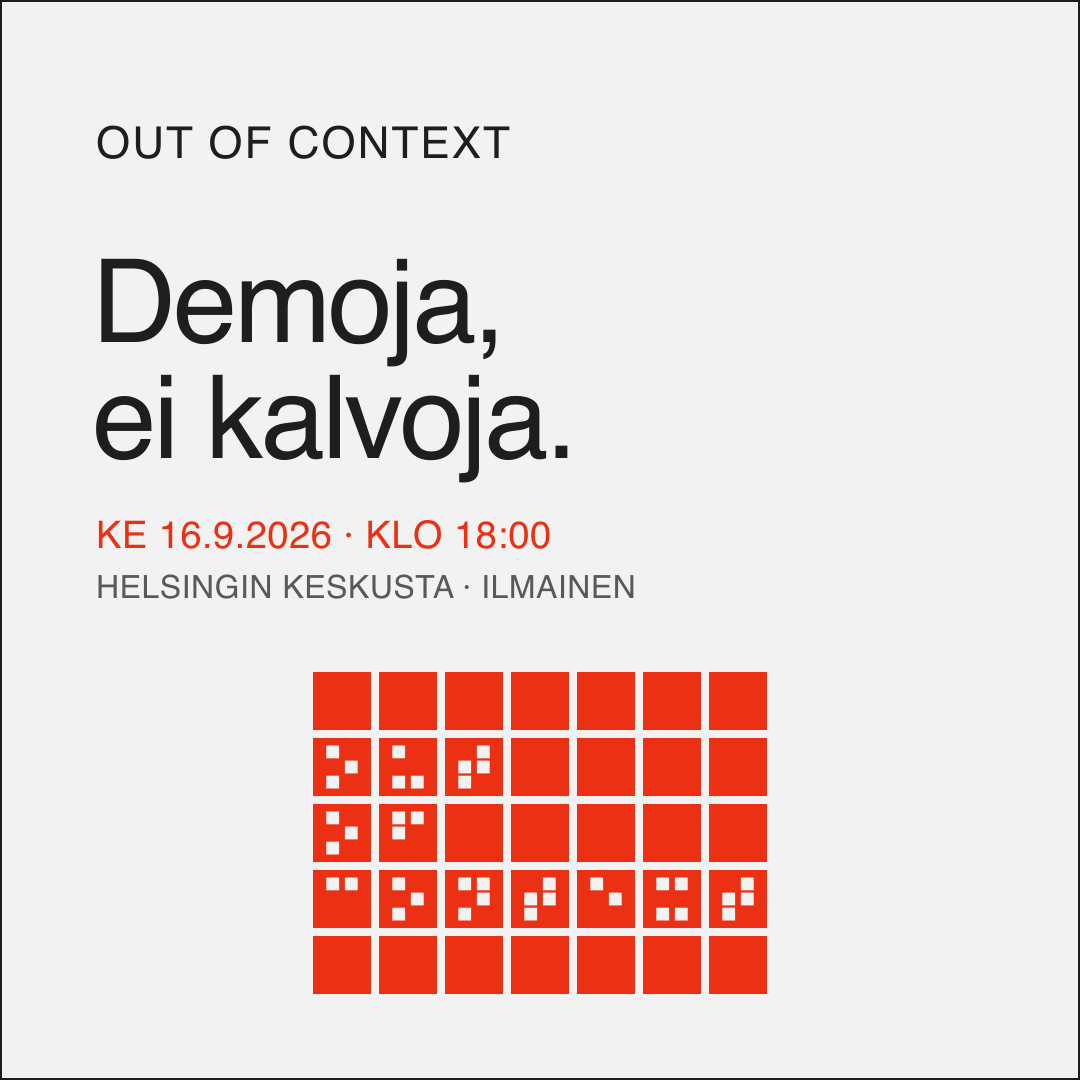
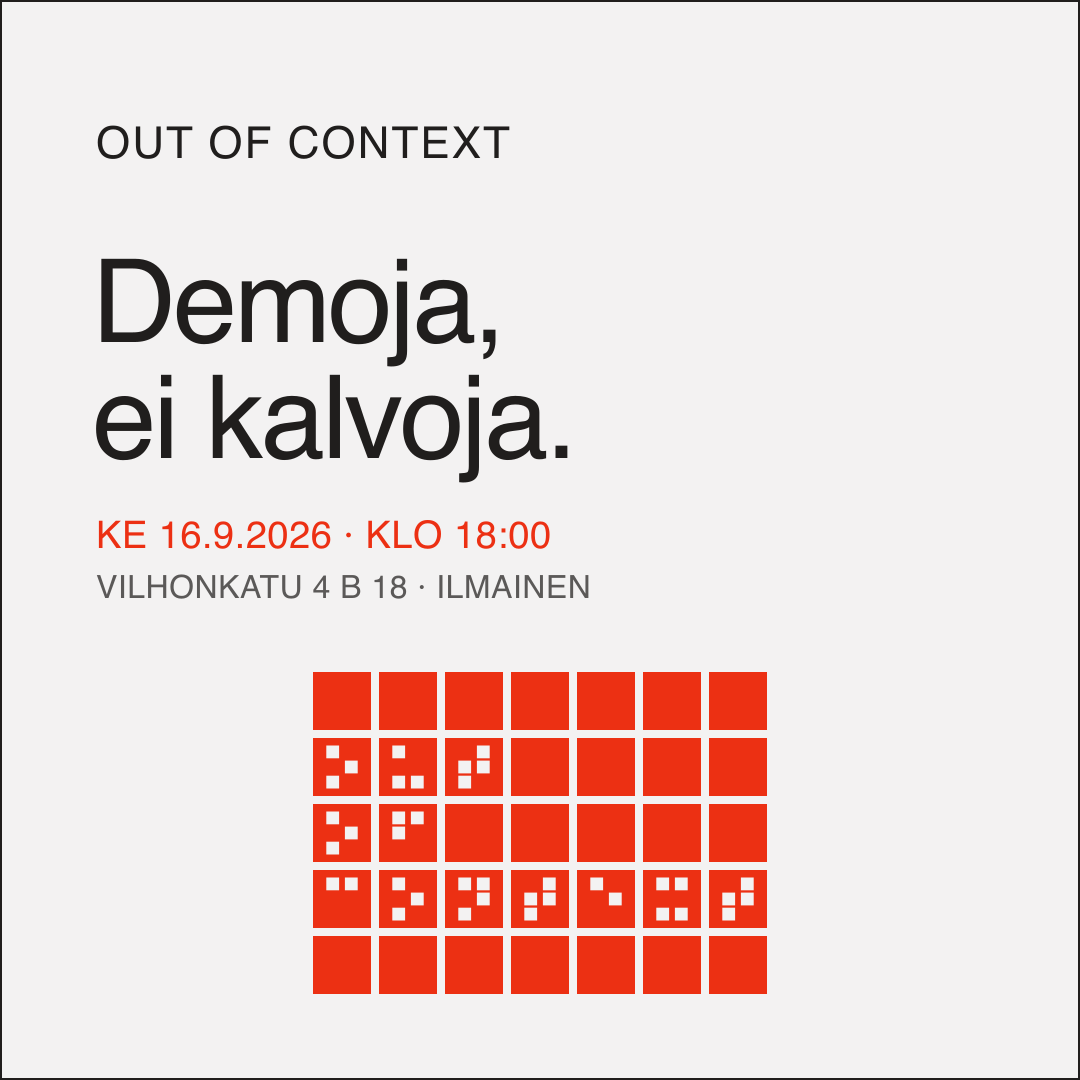
content: real venue — Vilhonkatu 4 B 18, Helsinki (site + OG + Lu.ma cover)

Changed region(s): [[0.0917, 0.5194, 0.5806, 0.5806]]

diff --git a/templates/index.html b/templates/index.html
@@ -378,9 +378,9 @@ a:hover { color: var(--color-accent); }
       </div>
       <div style="border:2px solid var(--color-divider); padding:24px; display:flex; flex-direction:column; gap:14px; align-items:flex-start">
         <div style="font-family:var(--font-heading); font-weight:700; font-size:11px; letter-spacing:0.1em; text-transform:uppercase">Lu.ma</div>
-        <div style="font-size:16px">Out of Context demoilta #1 · ke 16.9.2026 klo 18:00 · Helsingin keskusta</div>
+        <div style="font-size:16px">Out of Context demoilta #1 · ke 16.9.2026 klo 18:00 · Vilhonkatu 4 B 18, Helsinki</div>
         <a href="https://luma.com/8ankyx8u" class="btn btn-primary" style="justify-content:flex-start; font-size:16px; padding:16px 20px; width:100%; box-sizing:border-box">Ilmoittaudu Lu.massa</a>
-        <div class="text-muted" style="font-size:13px">Helsingin keskustan alueella; tarkka tila vahvistetaan viikkoa ennen. Kysyttävää? <a href="mailto:hei@out-of-context.dev?subject=Haluan%20demota">hei@out-of-context.dev</a></div>
+        <div class="text-muted" style="font-size:13px">Vilhonkatu 4 B 18, 4. krs, 00100 Helsinki. Kysyttävää? <a href="mailto:hei@out-of-context.dev?subject=Haluan%20demota">hei@out-of-context.dev</a></div>
       </div>
     </section>
   </div>
@@ -455,9 +455,9 @@ a:hover { color: var(--color-accent); }
       </div>
       <div style="border:2px solid var(--color-divider); padding:24px; display:flex; flex-direction:column; gap:14px; align-items:flex-start">
         <div style="font-family:var(--font-heading); font-weight:700; font-size:11px; letter-spacing:0.1em; text-transform:uppercase">Lu.ma</div>
-        <div style="font-size:16px">Out of Context demo night #1 · Wed 16 Sep 2026, 18:00 · Central Helsinki</div>
+        <div style="font-size:16px">Out of Context demo night #1 · Wed 16 Sep 2026, 18:00 · Vilhonkatu 4 B 18, Helsinki</div>
         <a href="https://luma.com/8ankyx8u" class="btn btn-primary" style="justify-content:flex-start; font-size:16px; padding:16px 20px; width:100%; box-sizing:border-box">Register on Lu.ma</a>
-        <div class="text-muted" style="font-size:13px">In central Helsinki; exact venue confirmed a week before. Questions? <a href="mailto:hei@out-of-context.dev?subject=Haluan%20demota">hei@out-of-context.dev</a></div>
+        <div class="text-muted" style="font-size:13px">Vilhonkatu 4 B 18, 4th floor, 00100 Helsinki. Questions? <a href="mailto:hei@out-of-context.dev?subject=Haluan%20demota">hei@out-of-context.dev</a></div>
       </div>
     </section>
   </div>

diff --git a/tools/og-image/generate.py b/tools/og-image/generate.py
@@ -45,7 +45,7 @@ parts.append(f'<text x="{LX}" y="132" font-family="{FF}" font-size="56" letter-s
 parts.append(f'<text x="{LX-4}" y="322" font-family="{FF}" font-size="100" letter-spacing="-3" fill="{INK}">Demoja,</text>')
 parts.append(f'<text x="{LX-4}" y="422" font-family="{FF}" font-size="100" letter-spacing="-3" fill="{INK}">ei kalvoja.</text>')
 parts.append(f'<text x="{LX}" y="512" font-family="{FF}" font-size="34" letter-spacing="0.5" fill="{RED}">KE 16.9.2026 &#183; KLO 18:00</text>')
-parts.append(f'<text x="{LX}" y="558" font-family="{FF}" font-size="30" letter-spacing="0.5" fill="{INK}" opacity="0.72">HELSINGIN KESKUSTA &#183; ILMAINEN</text>')
+parts.append(f'<text x="{LX}" y="558" font-family="{FF}" font-size="30" letter-spacing="0.5" fill="{INK}" opacity="0.72">VILHONKATU 4 B 18 &#183; ILMAINEN</text>')
 
 # ---- right: braille "OUT OF CONTEXT" as big favicon tiles (no orange panel) ----
 DOTS = {1: (0, 0), 2: (0, 1), 3: (0, 2), 4: (1, 0), 5: (1, 1), 6: (1, 2)}

diff --git a/tools/og-image/luma_cover.py b/tools/og-image/luma_cover.py
@@ -30,7 +30,7 @@ p.append(f'<text x="{LX}" y="158" font-family="{FF}" font-size="44" letter-spaci
 p.append(f'<text x="{LX-4}" y="342" font-family="{FF}" font-size="116" letter-spacing="-3" fill="{INK}">Demoja,</text>')
 p.append(f'<text x="{LX-4}" y="458" font-family="{FF}" font-size="116" letter-spacing="-3" fill="{INK}">ei kalvoja.</text>')
 p.append(f'<text x="{LX}" y="548" font-family="{FF}" font-size="38" letter-spacing="0.5" fill="{RED}">KE 16.9.2026 &#183; KLO 18:00</text>')
-p.append(f'<text x="{LX}" y="598" font-family="{FF}" font-size="32" letter-spacing="0.5" fill="{INK}" opacity="0.72">HELSINGIN KESKUSTA &#183; ILMAINEN</text>')
+p.append(f'<text x="{LX}" y="598" font-family="{FF}" font-size="32" letter-spacing="0.5" fill="{INK}" opacity="0.72">VILHONKATU 4 B 18 &#183; ILMAINEN</text>')
 
 # braille as big red favicon tiles, centered in the lower half
 cols, rows = 7, 5

diff --git a/issues/launch-checklist/item.md b/issues/launch-checklist/item.md
@@ -1,6 +1,6 @@
 ---
 created: 2026-08-02
-updated: 2026-08-04
+updated: 2026-08-11
 type: chore
 status: open
 priority: high
@@ -20,9 +20,9 @@ Things that must be done/removed before the registration page is truly public. T
 - [x] Swap the real Lu.ma event URL for `https://lu.ma/out-of-context` (appears ~4× in `templates/index.html`).
 - [x] Confirm `hei@out-of-context.dev` receives mail (Cloudflare Email Routing → forward to `jari@itsellesi.fi`; destination address must be verified via the link Cloudflare emails).
 - [x] Add `www → apex` 301 redirect at Cloudflare (needs a Redirect Rule / token scope beyond the deploy token). Canonical `<link rel="canonical">` already points at the apex.
-- [ ] Confirm final venue and replace "Helsingin keskustan alue / Central Helsinki" with the exact place once known (page currently says it's confirmed a week before).
+- [x] Confirm final venue and replace "Helsingin keskustan alue / Central Helsinki" with the exact place once known (page currently says it's confirmed a week before).
 - [x] Make the GitHub repo public (footer links to `github.com/jarimustonen/out-of-context`; private until launch) — update link if it moves to a community org.
-- [ ] Test social link previews (LinkedIn Post Inspector / paste into Slack/WhatsApp) once the OG image is deployed live.
+- [x] Test social link previews (LinkedIn Post Inspector / paste into Slack/WhatsApp) once the OG image is deployed live.
 
 ## Notes
 
